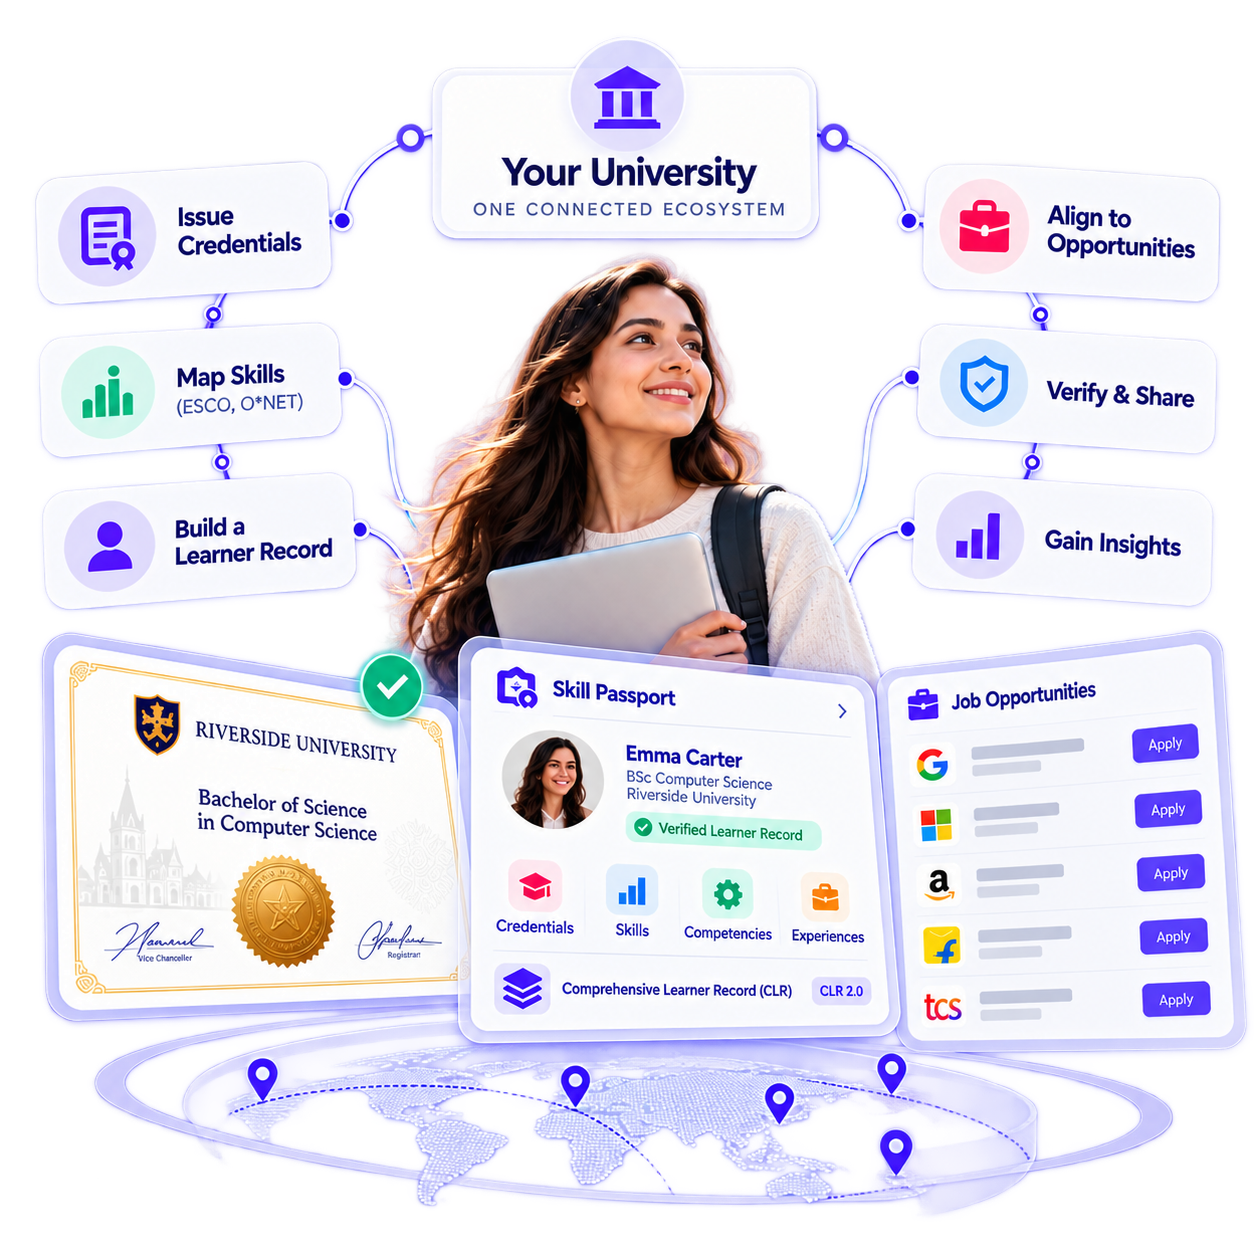
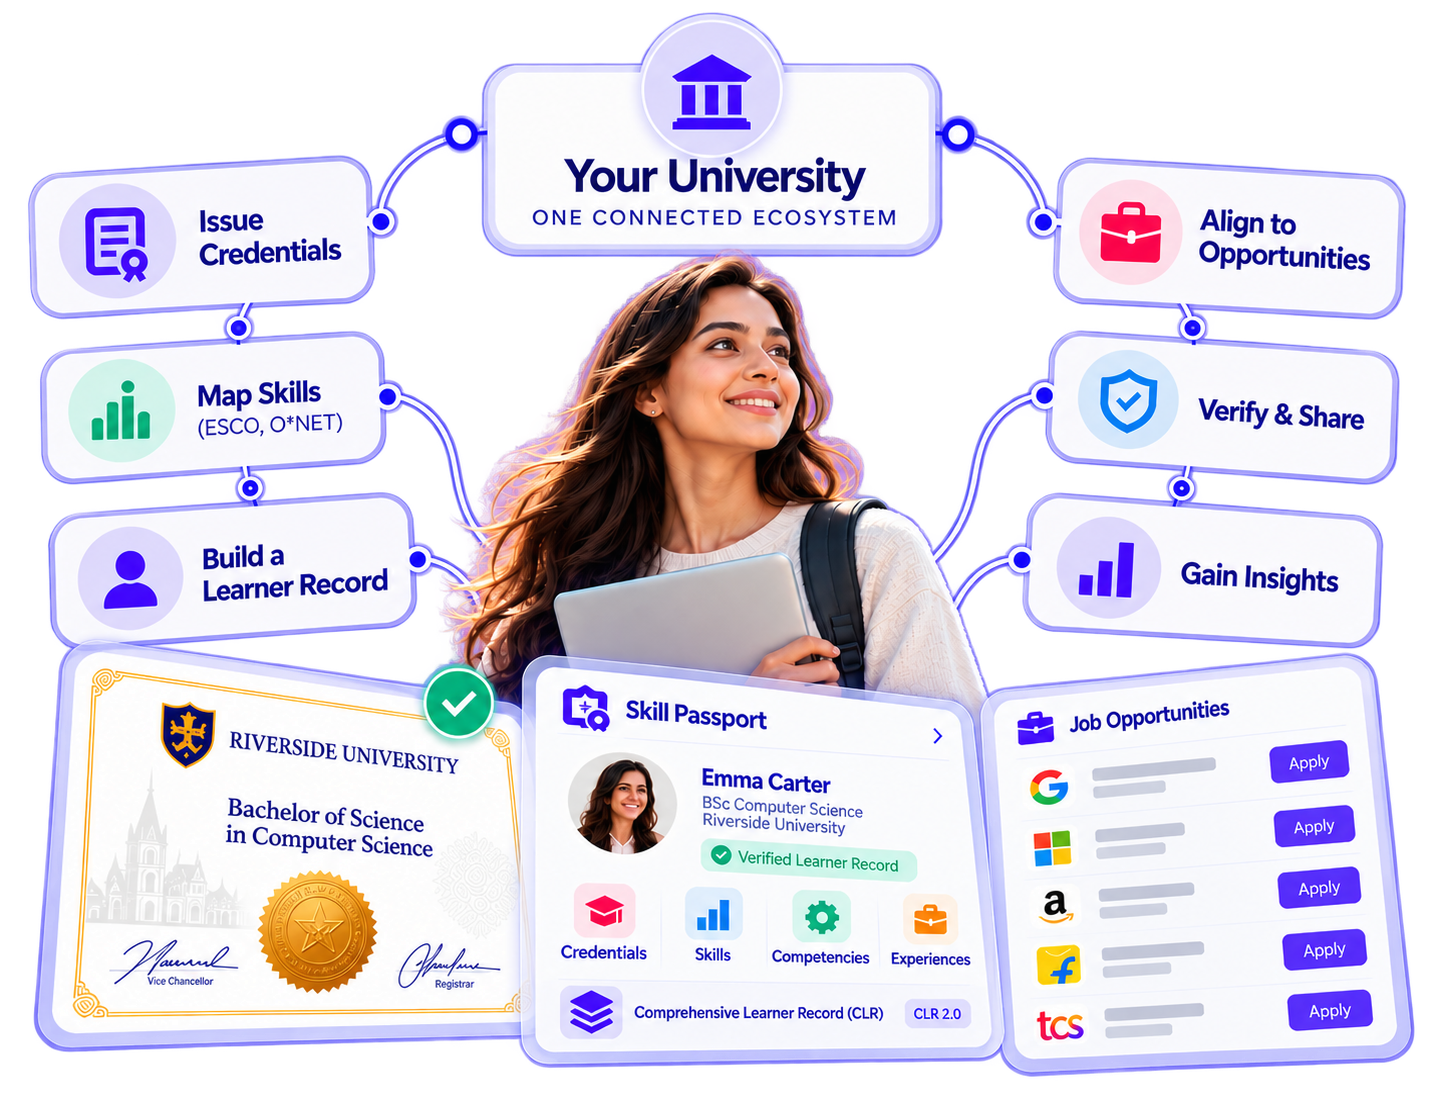
Update credential validation script and add supporting assets
Replit-Commit-Author: Agent

diff --git a/scripts/validate-credential-institution-outcomes.js b/scripts/validate-credential-institution-outcomes.js
@@ -53,8 +53,8 @@ async function main() {
           };
         });
         assert.match(metrics.src, /^\/assets4\/images\/credential-institution-outcomes\.webp\?v=\d+$/);
-        assert.deepEqual(metrics.dimensions, [1254, 1254]);
-        assert(Math.abs(metrics.ratio - 1) < .01, "Preserve the complete supplied illustration.");
+        assert.deepEqual(metrics.dimensions, [1429, 1100]);
+        assert(Math.abs(metrics.ratio - 1429 / 1100) < .01, "Preserve the complete supplied illustration.");
         assert.match(metrics.mask, /linear-gradient/);
         assert.equal(metrics.filter, "none", "Keep the artwork's text sharp.");
         assert.match(metrics.alt, /[Cc]onceptual/);

diff --git a/_includes/V4NewLook/credential-institution-outcomes.html b/_includes/V4NewLook/credential-institution-outcomes.html
@@ -4,8 +4,8 @@
       <figure class="credential-institution-outcomes__artwork">
         <img
           src="/assets4/images/credential-institution-outcomes.webp?v={{ site.time | date: '%s' }}"
-          width="1254"
-          height="1254"
+          width="1429"
+          height="1100"
           alt="Conceptual university ecosystem connecting credential issuance, skills mapping, a learner record, verification and sharing, insights and opportunities. The learner profile, credential, employer logos and job cards are illustrative."
           loading="lazy"
           decoding="async">

diff --git a/assets4/css/credential-institution-outcomes.css b/assets4/css/credential-institution-outcomes.css
@@ -79,7 +79,6 @@
   display: block;
   width: 100%;
   height: auto;
-  aspect-ratio: 1;
   object-fit: contain;
 }
 
